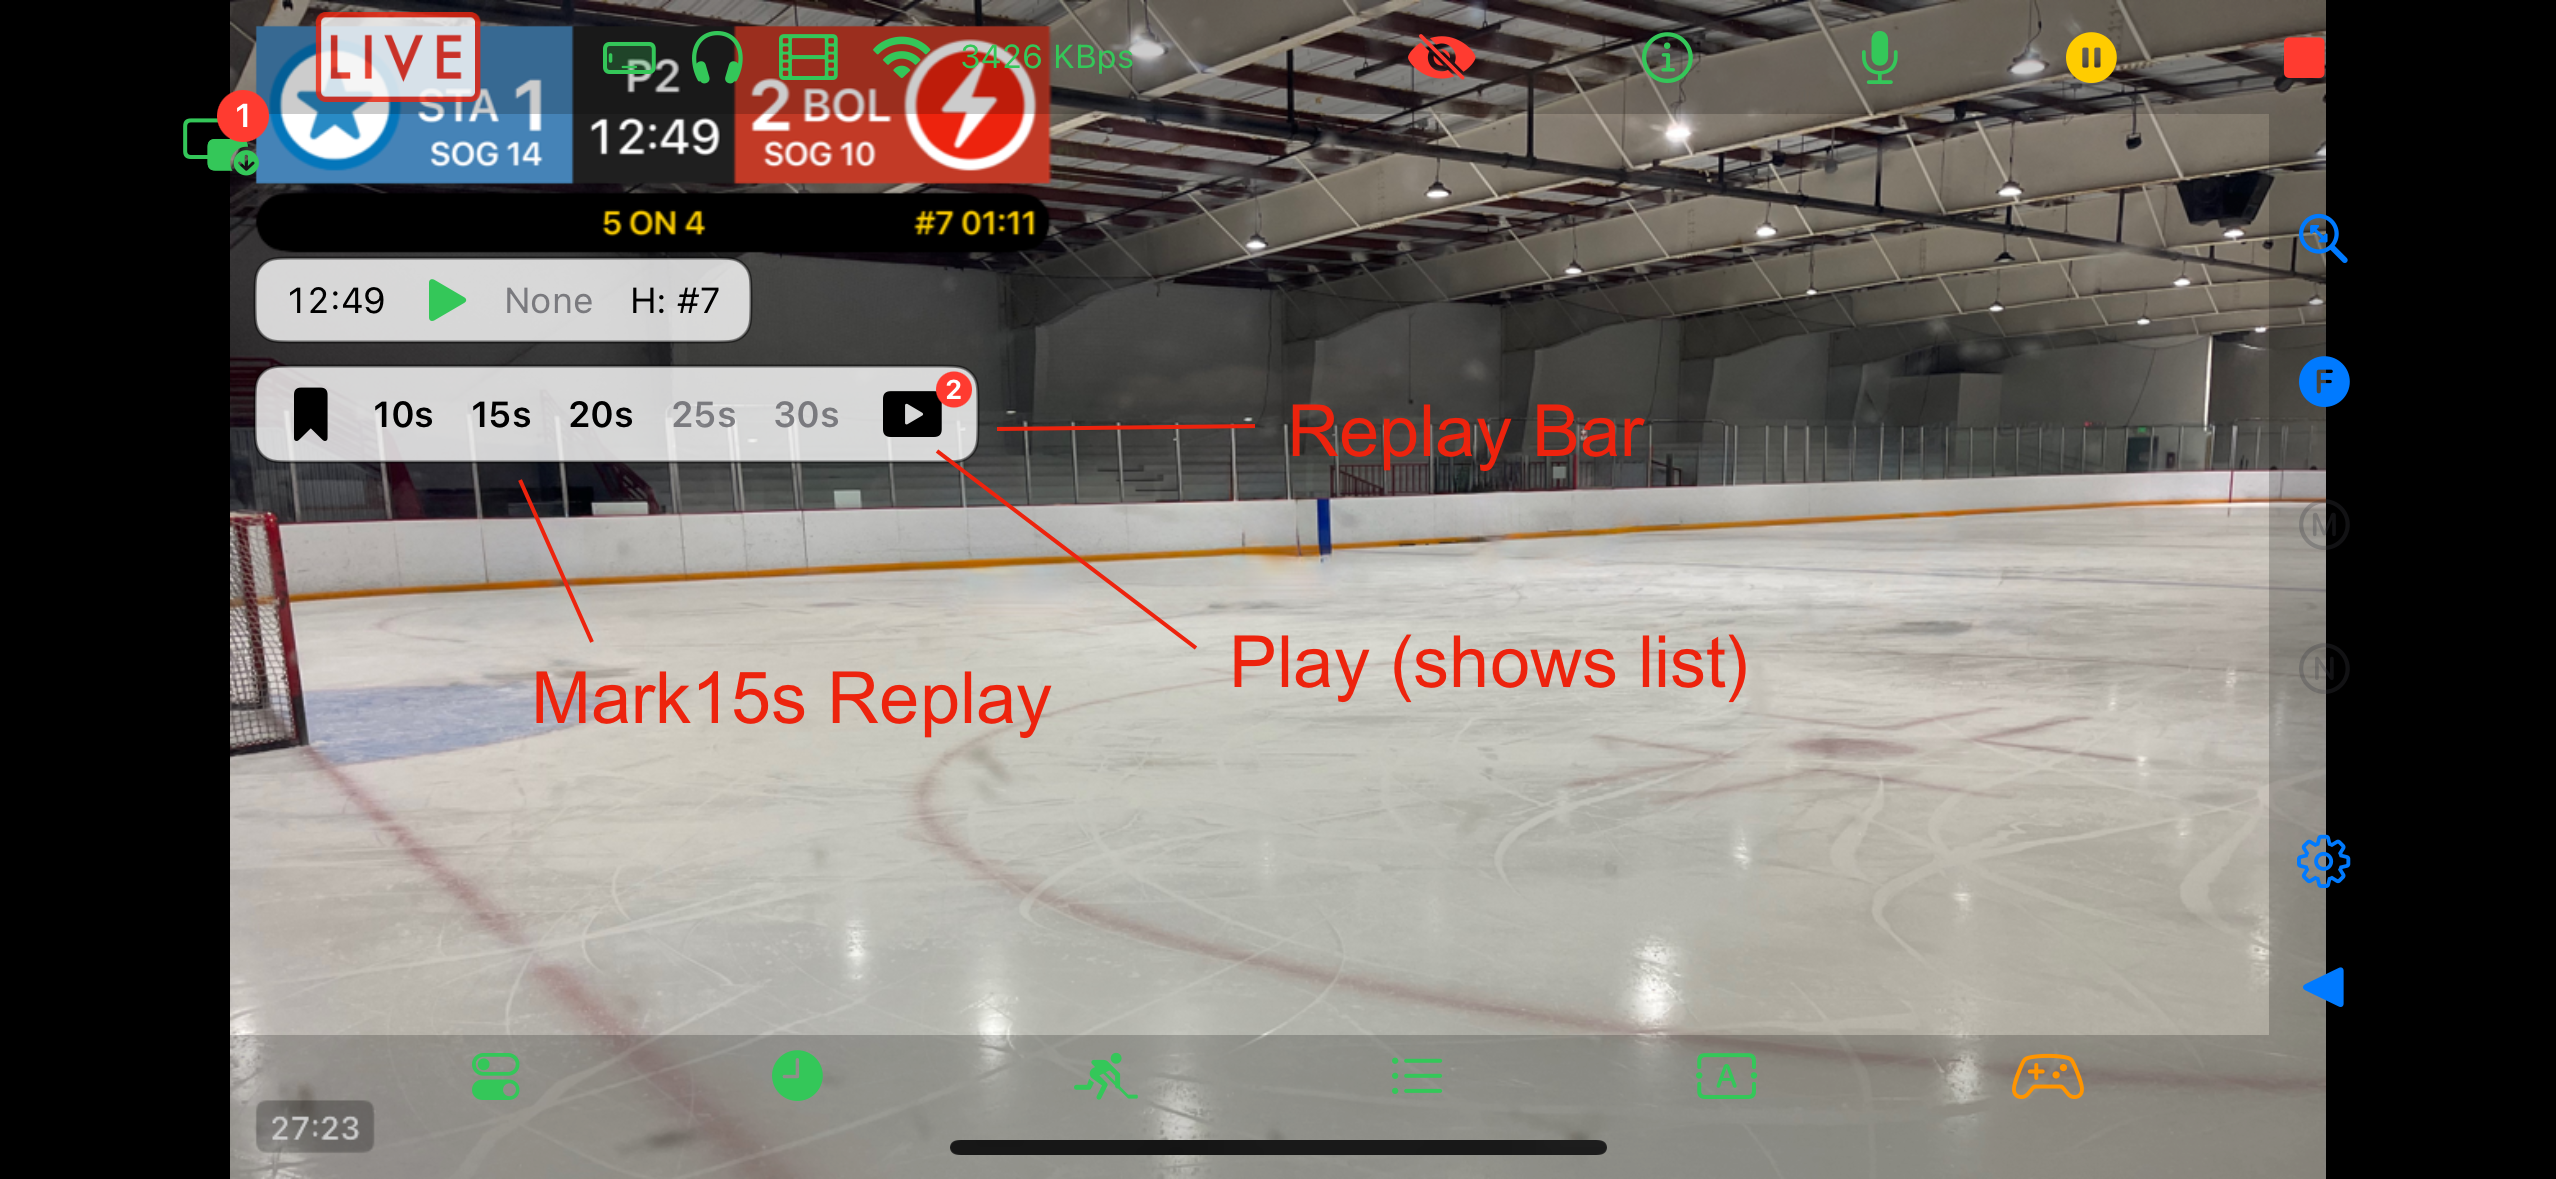
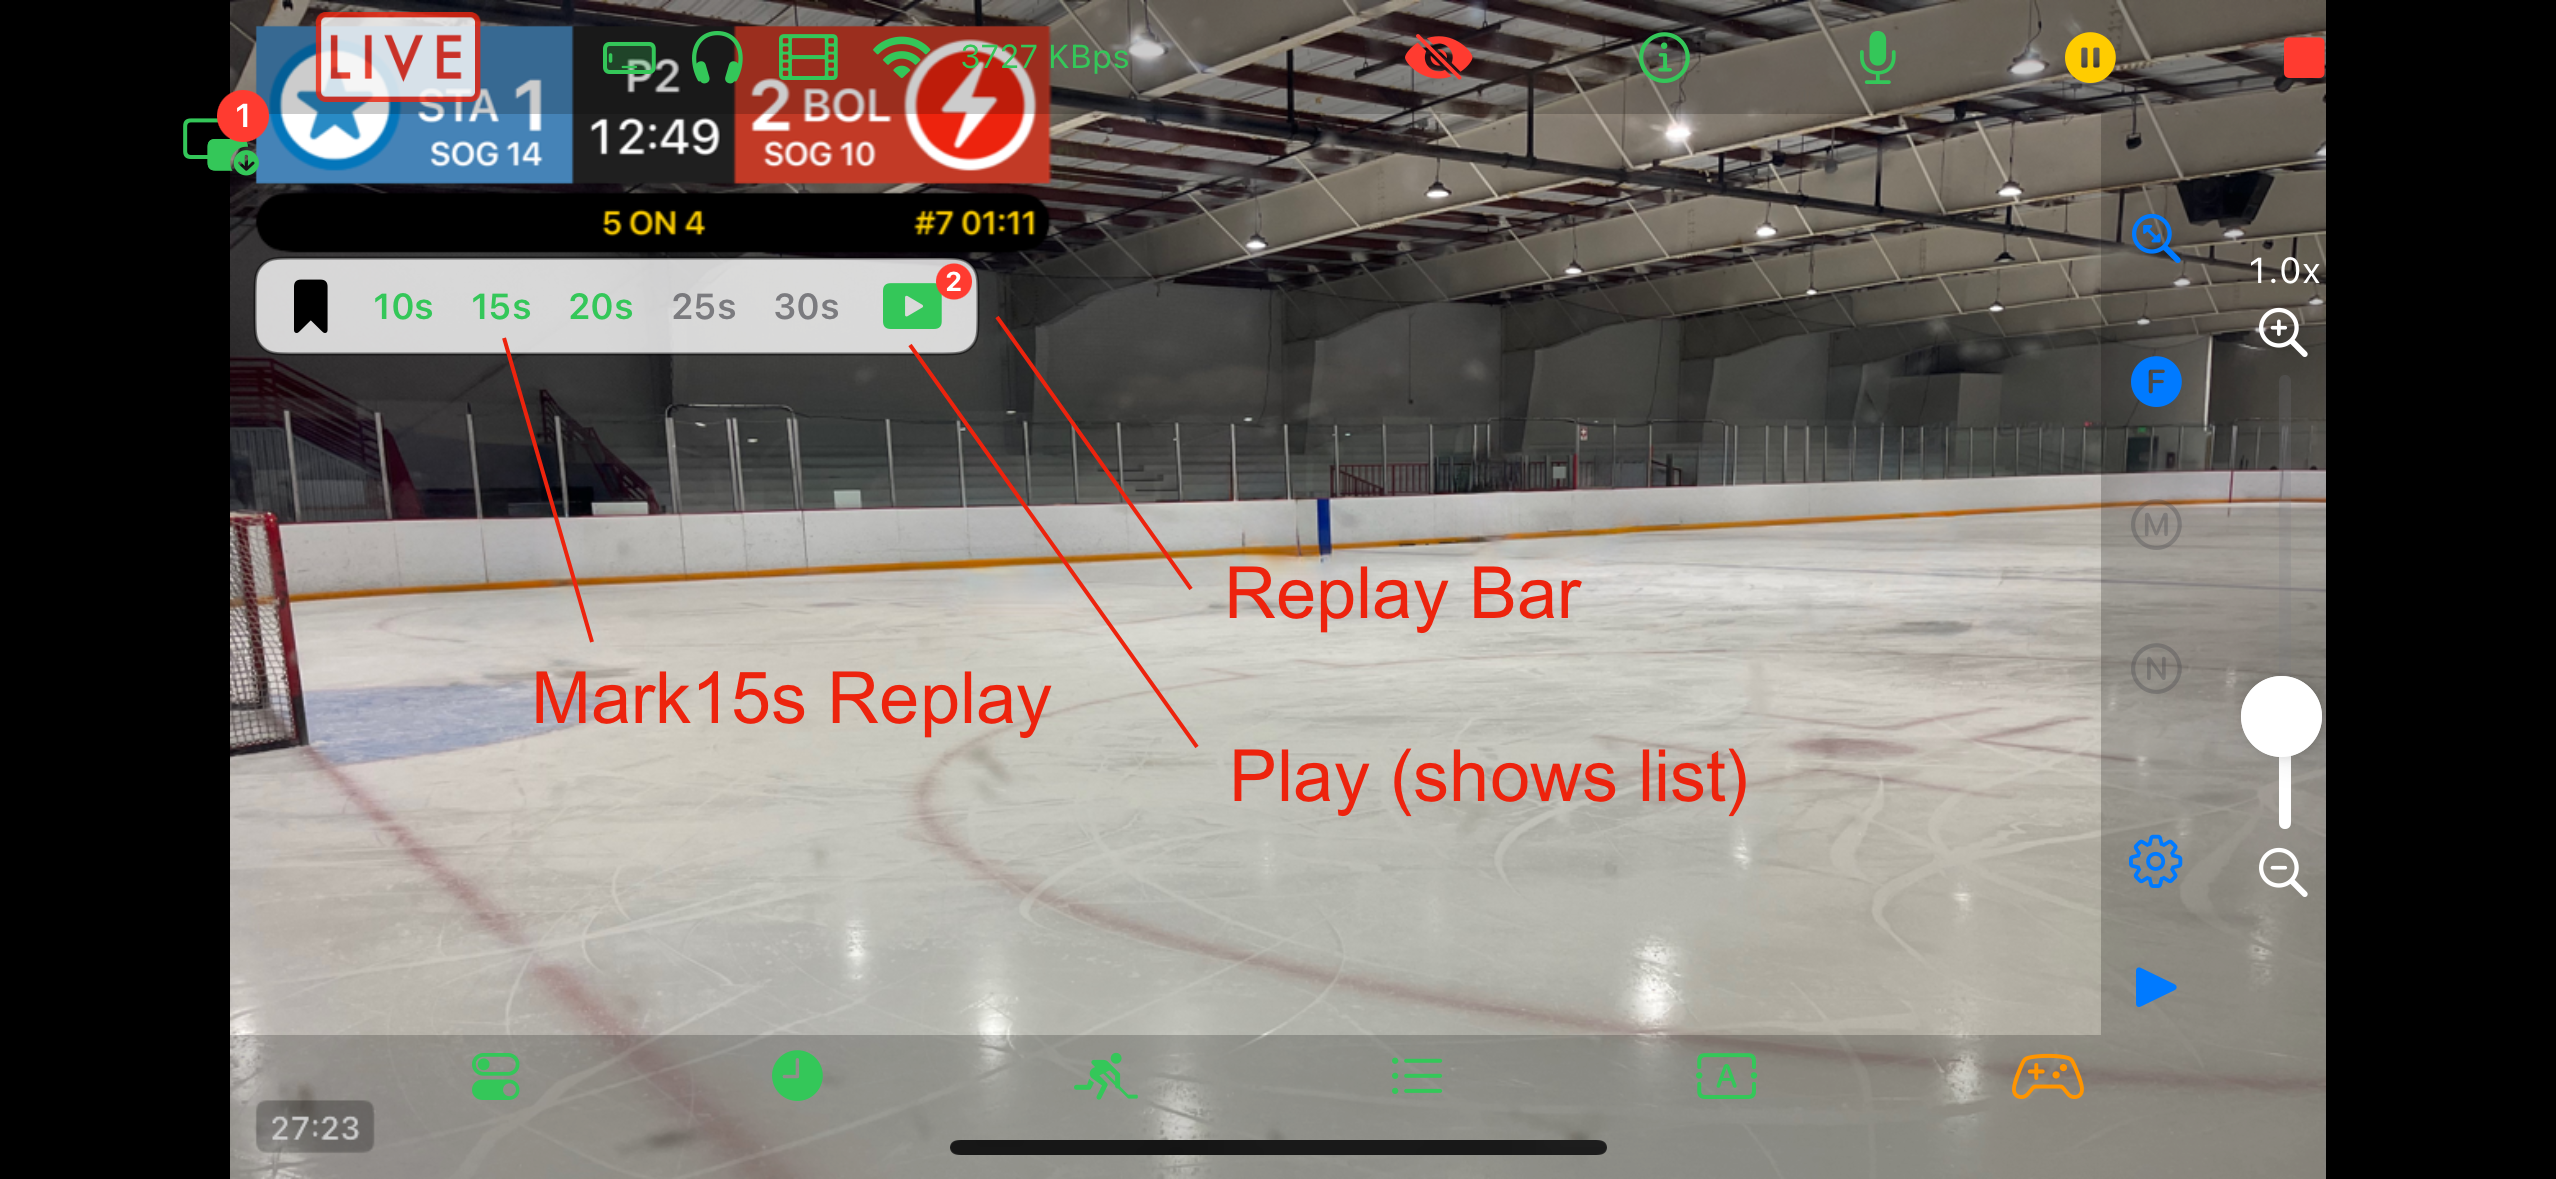
Update replay bar images and help

diff --git a/myteamlive/camera-view.md b/myteamlive/camera-view.md
@@ -30,6 +30,9 @@ The microphone icon shows a muted icon on the stream while audio is muted. Size 
 ## Quick Control Bar
 Use the [Quick Control Bar](quick-control-bar) to start and stop the clock and clear penalties without opening the full clock panel.
 
+## Replay Bar
+Use the Replay Bar to mark and play replays. The play icon opens to the list of the last ten saved replays. Learn more about the [Replay Bar](instant-replay).
+
 ## Elapsed Timer
 
 Use the Control Options panel to show or hide an elapsed stream timer for an exact timestamp on the stream. There is an option to view it only on the Broadcaster Camera View or to also send it out on the stream.

diff --git a/myteamlive/instant-replay.md b/myteamlive/instant-replay.md
@@ -49,5 +49,5 @@ Find these in the Go Live Controls step or the [Control Options Panel](control-o
 
 ## Tips
 - Tapping an [Events Panel](events-panel) graphic within 30 seconds of a mark, either before or after, tags that replay with the event.
-- Up to 10 replays are kept per broadcast; marking an 11th removes the oldest.
+- The replay list is limited to the last 10 replays; marking an 11th removes the oldest. The replays are not saved after the broadcast is finished.
 - If the device gets too hot, replay buffering pauses automatically until it cools down — watch for the thermal warning icon in the Control Bar.
